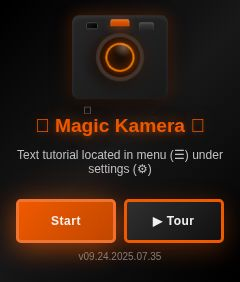
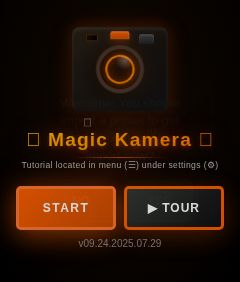
Add files via upload

diff --git a/apps/app/index.html b/apps/app/index.html
@@ -282,6 +282,14 @@
                             <span class="menu-section-arrow">›</span>
                         </button>
                     </div>
+
+                    <!-- Restore Deleted Items -->
+                    <div class="menu-section">
+                        <button id="restore-deleted-button" class="menu-section-button">
+                            <span class="menu-section-title">🗑️ Restore Deleted Items</span>
+                            <span class="menu-section-arrow">›</span>
+                        </button>
+                    </div>
  
                     <!-- Import Presets -->
                     <div class="menu-section">
@@ -321,6 +329,37 @@
             </div>
         </div>
         
+        <!-- Restore Deleted Items Submenu -->
+        <div id="restore-deleted-submenu" class="submenu" style="display: none;">
+            <div class="submenu-content">
+                <div class="submenu-header">
+                    <h3>RESTORE DELETED ITEMS</h3>
+                    <button id="restore-deleted-back" class="close-button">×</button>
+                </div>
+                <div class="pfs-tab-bar">
+                    <div class="pfs-tab active" id="restore-tab-presets">Deleted Presets</div>
+                    <div class="pfs-tab" id="restore-tab-images">Deleted Images</div>
+                </div>
+                <!-- Sticky action bar — Select All left, Restore + Delete right, same height as close button -->
+                <div style="display:flex;align-items:center;justify-content:space-between;padding:2vw;background:#000;border-bottom:1px solid #333;flex-shrink:0;gap:2vw;">
+                    <button id="restore-select-all-btn" class="menu-jump-button" style="height:8vw;min-height:32px;width:auto;padding:0 3vw;white-space:nowrap;">Select All</button>
+                    <div style="display:flex;gap:2vw;">
+                        <button id="restore-restore-btn" class="menu-jump-button" style="height:8vw;min-height:32px;width:auto;padding:0 3vw;background:#4CAF50;color:#fff;border-color:#4CAF50;white-space:nowrap;">Restore</button>
+                        <button id="restore-delete-btn" class="menu-jump-button" style="height:8vw;min-height:32px;width:auto;padding:0 3vw;background:#d32f2f;color:#fff;border-color:#d32f2f;white-space:nowrap;">Delete</button>
+                    </div>
+                </div>
+                <!-- Scrollable content -->
+                <div style="flex:1;overflow-y:auto;-webkit-overflow-scrolling:touch;">
+                    <div id="restore-panel-presets" style="display:block;">
+                        <div id="restore-presets-list"></div>
+                    </div>
+                    <div id="restore-panel-images" style="display:none;">
+                        <div id="restore-images-grid" style="display:grid;grid-template-columns:repeat(3,1fr);gap:2vw;padding:2vw;align-content:start;"></div>
+                    </div>
+                </div>
+            </div>
+        </div>
+
          <!-- Resolution Submenu -->
         <div id="resolution-submenu" class="submenu" style="display: none;">
             <div class="submenu-content">
@@ -1099,6 +1138,7 @@
                             <strong>Manually Select Options Mode:</strong> Enable/Disable. When enabled, if you choose a preset with options, a modal will appear asking you to pick from one of the options in the preset. Only this option is fed as the final prompt for generating the magical image. This setting does not work with No Magic Mode, Motion Sensor, Burst or Timer. It will work with Randomizer. The manually select options mode may be toggled from the gallery by pressing the OPTIONS button in the gallery<br>
                             <strong>Import Resolution:</strong> Select import resolution for external images imported through the gallery.<br>
                             <strong>Reset Database:</strong> Nuclear Option. Only imported presets remain. All custom work deleted.<br>
+                            <strong>Restore Deleted Items:</strong> Restore deleted custom or modified presets and deleted images from the gallery.  Will not restore presets that were deleted by resetting the database.<br>
                             <strong>📥 Import Presets:</strong> When you first start, import a preset from our external library of presets. The presets are locked except for Caricature and Impressionism. Import them to capture photos and begin the fun journey of unlocking your imported artistic library. To unlock more presets, take a photo with any preset you already own or reprompt a photo in the gallery. One snap with a unique imported preset, or a click on the magic button in the gallery, provides a credit to buy more presets-unlocking a new surprise to your collection! Import only the unlocked presets you want using your earned credits by checking them individually or ✓ All (or ✗ None). Once you select the ones you want to import, click the Import button. NOTE: Previously imported presets remain checked. To delete previously imported presets from the Magic Kamera, delete them from the Main Menu. You can import them again if you like. Any new presets added to our external library of presets, will be locked (check regularly for new ones as we are constantly updating this list). Updated Presets you own will appear on the top of the Import Presets list. You need to select (if they are not already selected) the updated preset and click the Import button to update your owned preset. <strong>🔊 Hear Preset Info:</strong> When browsing presets in the Import Presets menu, tap any preset ONCE to hear its description read aloud. Use the 🔊 mute button in the header to toggle audio on or off.<br>
                             <strong>📂 Preset File Settings (*Advanced Feature*):</strong> Located directly below Import Presets in the Settings menu. Preset Sources Tab: This section lets you load presets within a json file from any repository (the URL for Github repositories must be in raw format) in addition to, or instead of, the built-in preset library. It also lets you upload preset json files via a qr code (see Adding a Custom Source Code via QR Code below).  Preview Images Tab: You may import images to use as preview images using a qr code (see Adding a Custom Preview Image via QR Code below).  This is useful if you are not linking a json file in a repository.<br>
                             <em>Adding a Custom Source through a Repository:</em> Open Preset File Settings. Click on the Preset Sources Tab (default). In the Add Custom Source area at the bottom, enter a friendly name for the source and type the raw URL to the preset JSON file hosted on GitHub. To get the raw URL: open the repository in GitHub, navigate to the JSON file, and tap the <strong>Raw</strong> button. (You may also press the Convert Github to Raw button in the program.) Type the full URL into the URL field. Tap <strong>+ Add Source</strong>.<br>